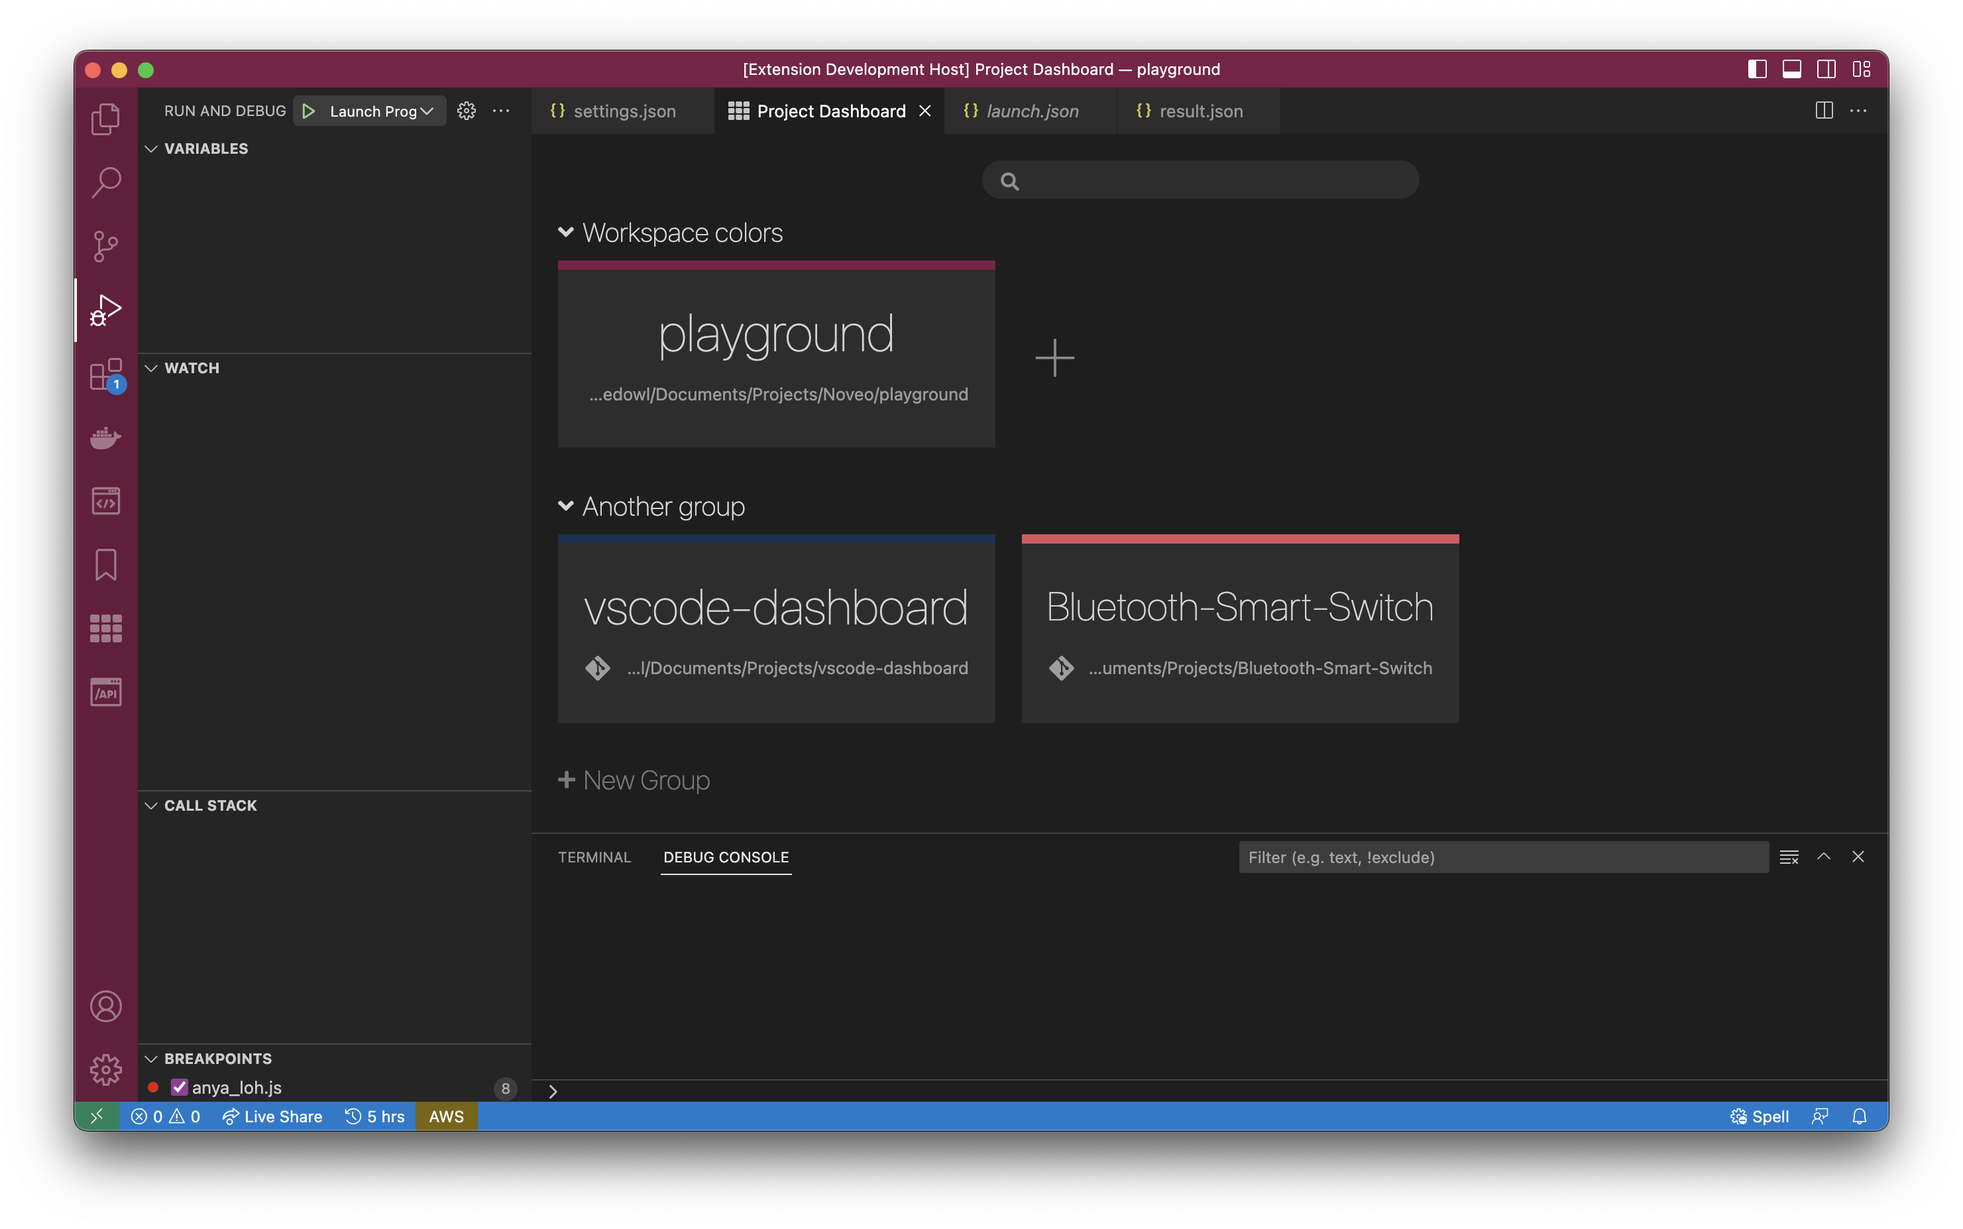
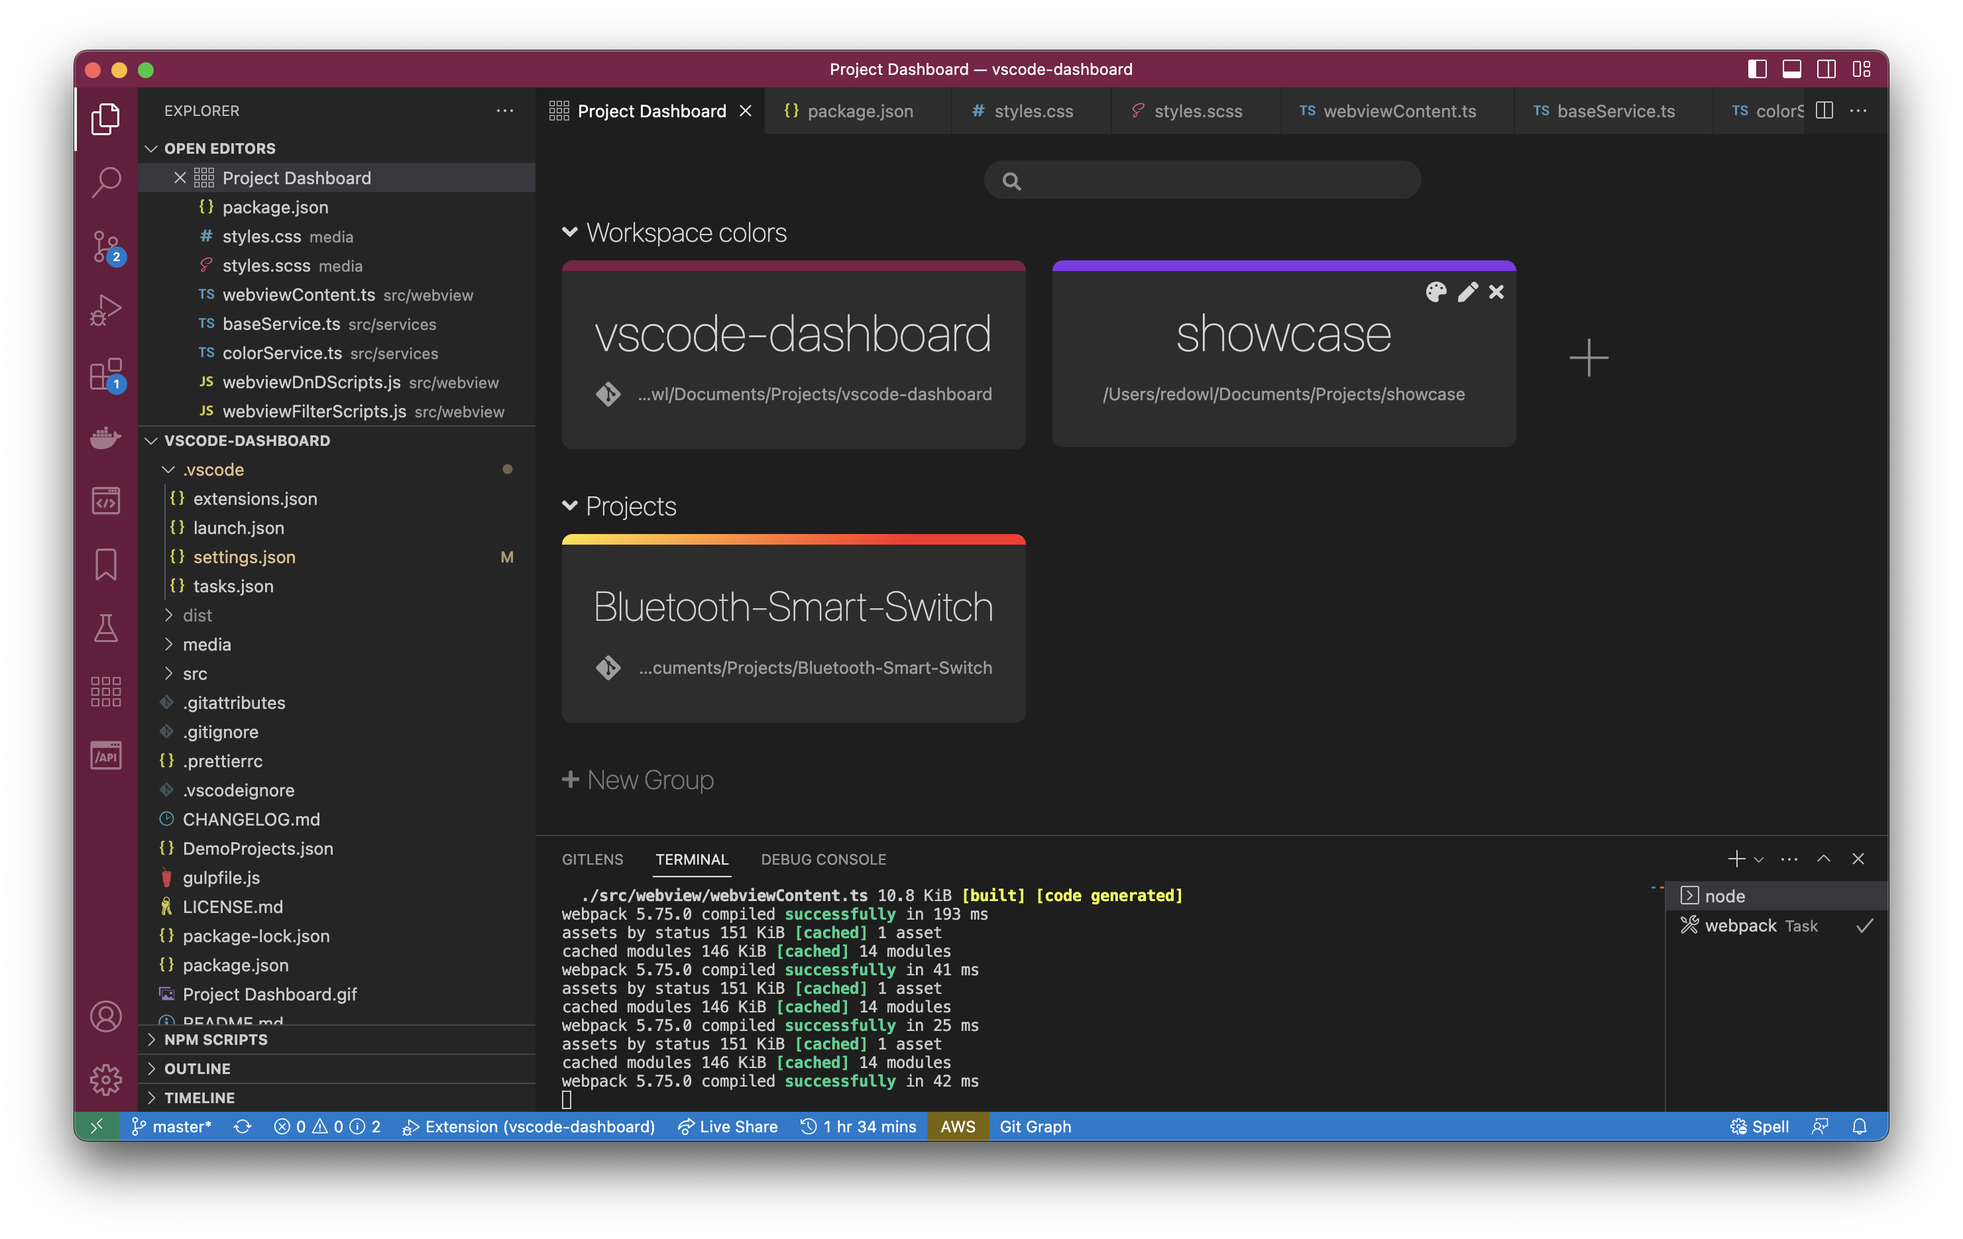
Improved create project layout

diff --git a/media/styles.css b/media/styles.css
@@ -1,1 +1,1 @@
-.gu-mirror{position:fixed!important;margin:0!important;z-index:9999!important;opacity:.8}.gu-hide{display:none!important}.gu-unselectable{-webkit-user-select:none!important;-moz-user-select:none!important;-ms-user-select:none!important;user-select:none!important}.gu-transit{opacity:.2}:root{--dashboard-project-card-bg:var(--vscode-tab-inactiveBackground);--dashboard-foreground:var(--vscode-editor-foreground);--dashboard-path:var(--vscode-descriptionForeground);--column-width:350px}body{user-select:none}body.preload,body.preload *{transition:none!important}body.dashboard-empty #tempGroup{display:none}.group{margin-top:10px;margin-right:-20px;overflow:hidden}.group.collapsed .group-list{height:0!important;min-height:0!important;margin-top:0}.group.collapsed .collapse-icon svg{transform:rotate(-90deg)}.group#tempGroup .group-title{transition:opacity 150ms ease-in-out;opacity:.5}.group#tempGroup .group-title:hover{opacity:1}.group#tempGroup svg{width:.75em;fill:var(--dashboard-foreground)}.group:first-child{margin-top:10px}.group .group-title{min-width:calc(var(--column-width) - 19px);display:inline-block;font-size:20px;font-weight:200;margin-left:0}.group .group-title>span{cursor:pointer}.group .group-title .collapse-icon{padding-right:2px}.group .group-title .collapse-icon svg{width:.6em;fill:var(--dashboard-foreground);margin-right:0}.group .group-title .collapse-icon :hover>svg{filter:brightness(150%)}.group .group-title .collapse-icon [data-action],.group .group-title .collapse-icon[data-action]{cursor:pointer}.group .group-title .collapse-icon svg{transition:transform 150ms ease-in-out;margin-bottom:-2px}.group .group-title-text{margin-right:2em}.group .group-actions{transition:opacity 150ms ease-in-out 250ms;opacity:0;pointer-events:none}.group .group-actions svg{width:14.6px;fill:var(--dashboard-foreground);margin-right:4px}.group .group-actions :hover>svg{filter:brightness(150%)}.group .group-actions [data-action],.group .group-actions[data-action]{cursor:pointer}.group .group-actions.left{display:inline;padding-left:.5em}.group .group-actions.right{float:right}.group .group-actions [data-action=add] svg{margin-right:2px}.group .group-actions :last-child svg{margin-right:6px}.group .group-title:hover .group-actions{opacity:1;pointer-events:all}.group .group-list{display:flex;flex-wrap:wrap;align-items:flex-start;position:relative;padding-top:10px}.group .drop-signal{transition:opacity 150ms ease-in-out;pointer-events:none;opacity:0;width:calc(var(--column-width) - 19px);align-self:stretch;background:var(--dashboard-project-card-bg);margin-bottom:20px;position:absolute;top:10px;height:calc(100% - 30px)}.group .drop-signal:not(:only-of-type){display:none}.group-title:hover+.group .add-project,.group:hover .add-project{opacity:.6}.project-container{display:inline-block;width:var(--column-width);overflow:hidden;margin:0 20px 20px 0;border-radius:8px}.project-container.slim{width:calc(var(--column-width)/ 5);min-width:40px}body .project{cursor:pointer;position:relative;display:flex;flex-direction:column;justify-content:center;align-items:center;padding:27px 25px 20px 25px;background:var(--dashboard-project-card-bg)}body .project .project-border{position:absolute;left:0;top:0;width:100%;height:8px;background:0 0;z-index:50}body .project .fitty-container{max-width:100%;min-height:53px;display:flex;justify-content:center;align-items:center}body .project .add-project-header,body .project .project-header{color:var(--dashboard-foreground);margin:0;font-size:40px;font-weight:lighter;text-align:center}body .project .add-project-header{font-size:60px;margin-top:-.25em}body .project .project-path-info{display:flex;max-width:100%}body .project .project-path{color:var(--dashboard-path);direction:rtl;overflow:hidden;white-space:nowrap;text-overflow:ellipsis}body .project .project-path .path-text{text-overflow:ellipsis;direction:ltr;unicode-bidi:bidi-override}body .project .git-icon svg,body .project .project-icon svg,body .project .remote-icon svg{width:20px;fill:var(--dashboard-path)}body .project .error-icon.git-icon svg,body .project .error-icon.remote-icon svg,body .project .project-icon.error-icon svg{fill:var(--vscode-gitDecoration-deletedResourceForeground)}body .project .git-icon{margin:-2px 6px -4px 0}body .project .remote-icon{margin:0 6px -4px 0}body .project.add-project,body .project.no-projects{height:calc(var(--column-width) * .2742857143);background:0 0;font-size:1.5em;opacity:0;transition:opacity 150ms ease-in-out}body .project.add-project:hover,body .project.no-projects:hover{opacity:1}body .project.no-projects{opacity:1;text-align:center}body .project.import-data{width:calc(2 * var(--column-width))}body .project .project-actions-wrapper{position:absolute;right:0;top:0;padding-top:calc(.6em + 8px);overflow-y:hidden}body .project .project-actions{margin-top:calc(-2em - 8px);transition:margin-top 150ms ease-in-out 250ms}body .project .project-actions svg{width:15.6px;fill:var(--dashboard-foreground);margin-right:4.68px}body .project .project-actions :hover>svg{filter:brightness(150%)}body .project .project-actions [data-action],body .project .project-actions[data-action]{cursor:pointer}body .project:hover .project-actions{margin-top:0}.custom-context-menu{position:absolute;z-index:100;display:none;padding:11px 1px;background:var(--vscode-menu-background);color:var(--vscode-menu-foreground);box-shadow:var(--vscode-widget-shadow) 0 2px 3px}.custom-context-menu.visible{display:block}.custom-context-menu .custom-context-menu-item{padding:5px 26px}.custom-context-menu .custom-context-menu-item:hover{color:var(--vscode-menu-selectionForeground);background:var(--vscode-menu-selectionBackground)}.custom-context-menu .custom-context-menu-item.disabled{pointer-events:none;opacity:50%}.custom-context-menu .custom-context-menu-separator{border-top:1pt solid var(--vscode-menu-separatorBackground);opacity:50%;margin:3px 10px}.hide-project-path .group .project{padding:30px 20px}.hide-project-path .group .project .project-path-info{display:none}.hide-project-path .group .project.add-project{height:calc(calc(var(--column-width) * .2742857143) - 1em - 24px)}.hide-project-path .group .group-list{min-height:calc(calc(var(--column-width) * .4657142857) - 1em - 24px)}.gu-mirror.project-container .project{height:auto}.gu-mirror.project-container .project-actions-wrapper{display:none}.gu-mirror *{cursor:grabbing!important}.gu-mirror .group-actions,.gu-mirror .project-actions-wrapper{display:none!important}.project-dragging .group .drop-signal{opacity:.2;pointer-events:all;position:static;height:auto}.project-dragging .group .group-title{opacity:1}.last{order:1000}.filter-wrapper{transition:top 150ms ease-in-out;top:-52px;position:absolute;width:calc(100% - 40px);display:flex;align-items:center;justify-content:center;padding-top:20px}.filter-wrapper .clear-search-icon,.filter-wrapper .search-icon{margin-left:-40px;margin-right:-28px;z-index:5;padding-top:5px}.filter-wrapper .clear-search-icon svg,.filter-wrapper .search-icon svg{width:14px;fill:var(--dashboard-path);opacity:.6}.filter-wrapper .clear-search-icon{margin-left:-26px;visibility:hidden;cursor:pointer}.filter-wrapper:active.has-filter-value .clear-search-icon,.filter-wrapper:focus.has-filter-value .clear-search-icon,.filter-wrapper:hover.has-filter-value .clear-search-icon{visibility:visible}.filter-wrapper input{background:var(--dashboard-project-card-bg);color:var(--dashboard-foreground);width:calc(var(--column-width) - 20px);outline-color:transparent;padding:4px 34px;text-align:center;font-family:var(--vscode-font-family);font-size:1.2em;border:1pt solid transparent;border-radius:20px}.filter-wrapper input[type=search]::-webkit-search-cancel-button,.filter-wrapper input[type=search]::-webkit-search-decoration,.filter-wrapper input[type=search]::-webkit-search-results-button,.filter-wrapper input[type=search]::-webkit-search-results-decoration{display:none}body{transition:padding-top 150ms ease-in-out;padding-top:0}body.no-initial-transition{transition:none}body.no-initial-transition .filter-wrapper{transition:none}body.filtering-active{padding-top:52px}body.filtering-active .filter-wrapper{top:0}body.filtering-active .filtered{display:none!important}
+.gu-mirror{position:fixed!important;margin:0!important;z-index:9999!important;opacity:.8}.gu-hide{display:none!important}.gu-unselectable{-webkit-user-select:none!important;-moz-user-select:none!important;-ms-user-select:none!important;user-select:none!important}.gu-transit{opacity:.2}:root{--dashboard-project-card-bg:var(--vscode-tab-inactiveBackground);--dashboard-foreground:var(--vscode-editor-foreground);--dashboard-path:var(--vscode-descriptionForeground);--column-width:350px}body{user-select:none}body.preload,body.preload *{transition:none!important}body.dashboard-empty #tempGroup{display:none}.group{margin-top:10px;margin-right:-20px;overflow:hidden}.group.collapsed .group-list{height:0!important;min-height:0!important;margin-top:0}.group.collapsed .collapse-icon svg{transform:rotate(-90deg)}.group#tempGroup .group-title{transition:opacity 250ms ease-in-out;opacity:.5}.group#tempGroup .group-title:hover{opacity:1}.group#tempGroup svg{width:.75em;fill:var(--dashboard-foreground)}.group:first-child{margin-top:10px}.group .group-title{min-width:calc(var(--column-width) - 19px);display:inline-block;font-size:20px;font-weight:200;margin-left:0}.group .group-title>span{cursor:pointer}.group .group-title .collapse-icon{padding-right:2px}.group .group-title .collapse-icon svg{width:.6em;fill:var(--dashboard-foreground);margin-right:0}.group .group-title .collapse-icon :hover>svg{filter:brightness(150%)}.group .group-title .collapse-icon [data-action],.group .group-title .collapse-icon[data-action]{cursor:pointer}.group .group-title .collapse-icon svg{transition:transform 250ms ease-in-out;margin-bottom:-2px}.group .group-title-text{margin-right:2em}.group .group-actions{transition:opacity 250ms ease-in-out .2s;opacity:0;pointer-events:none}.group .group-actions svg{width:14.6px;fill:var(--dashboard-foreground);margin-right:4px}.group .group-actions :hover>svg{filter:brightness(150%)}.group .group-actions [data-action],.group .group-actions[data-action]{cursor:pointer}.group .group-actions.left{display:inline;padding-left:.5em}.group .group-actions.right{float:right}.group .group-actions [data-action=add] svg{margin-right:2px}.group .group-actions :last-child svg{margin-right:6px}.group .group-title:hover .group-actions{opacity:1;pointer-events:all}.group .group-list{display:flex;flex-wrap:wrap;align-items:flex-start;position:relative;padding-top:10px}.group .drop-signal{transition:opacity 250ms ease-in-out;pointer-events:none;opacity:0;width:calc(var(--column-width) - 19px);align-self:stretch;background:var(--dashboard-project-card-bg);margin-bottom:20px;position:absolute;top:10px;height:calc(100% - 30px)}.group .drop-signal:not(:only-of-type){display:none}.group-title:hover+.group .add-project,.group:hover .add-project{opacity:.4}.project-container{display:inline-block;flex:0 0 30%;width:var(--column-width);overflow:hidden;margin:0 3% 20px 0;border-radius:8px}.project-container.slim{width:calc(var(--column-width)/ 5);min-width:40px}.project-container.slim:nth-child(3n+5),.project-container.slim:nth-child(5n){height:40px}.project-container.slim:nth-child(3n+5)>.project,.project-container.slim:nth-child(5n)>.project{padding:0;height:100%}body .project{cursor:pointer;position:relative;display:flex;flex-direction:column;justify-content:center;align-items:center;padding:27px 25px 20px 25px;background:var(--dashboard-project-card-bg)}body .project .project-border{position:absolute;left:0;top:0;width:100%;height:8px;background:0 0;z-index:50}body .project .fitty-container{max-width:100%;min-height:53px;display:flex;justify-content:center;align-items:center}body .project .add-project-header,body .project .project-header{color:var(--dashboard-foreground);margin:0;font-size:40px;font-weight:lighter;text-align:center}body .project .add-project-header{font-size:40px;margin-top:-.25em}body .project .project-path-info{display:flex;max-width:100%}body .project .project-path{color:var(--dashboard-path);direction:rtl;overflow:hidden;white-space:nowrap;text-overflow:ellipsis}body .project .project-path .path-text{text-overflow:ellipsis;direction:ltr;unicode-bidi:bidi-override}body .project .git-icon svg,body .project .project-icon svg,body .project .remote-icon svg{width:20px;fill:var(--dashboard-path)}body .project .error-icon.git-icon svg,body .project .error-icon.remote-icon svg,body .project .project-icon.error-icon svg{fill:var(--vscode-gitDecoration-deletedResourceForeground)}body .project .git-icon{margin:-2px 6px -4px 0}body .project .remote-icon{margin:0 6px -4px 0}body .project.add-project,body .project.no-projects{height:calc(var(--column-width) * .2742857143);background:var(--dashboard-project-card-bg);font-size:1.5em;opacity:.4;transition:opacity 250ms ease-in-out}body .project.add-project:hover,body .project.no-projects:hover{opacity:1}body .project.no-projects{opacity:1;text-align:center}body .project.import-data{width:calc(2 * var(--column-width))}body .project .project-actions-wrapper{position:absolute;right:0;top:0;padding-top:calc(.6em + 8px);overflow-y:hidden}body .project .project-actions{margin-top:calc(-2em - 8px);transition:margin-top 250ms ease-in-out .2s}body .project .project-actions svg{width:15.6px;fill:var(--dashboard-foreground);margin-right:4.68px}body .project .project-actions :hover>svg{filter:brightness(150%)}body .project .project-actions [data-action],body .project .project-actions[data-action]{cursor:pointer}body .project:hover .project-actions{margin-top:0}.custom-context-menu{position:absolute;z-index:100;display:none;padding:11px 1px;background:var(--vscode-menu-background);color:var(--vscode-menu-foreground);box-shadow:var(--vscode-widget-shadow) 0 2px 3px}.custom-context-menu.visible{display:block}.custom-context-menu .custom-context-menu-item{padding:5px 26px}.custom-context-menu .custom-context-menu-item:hover{color:var(--vscode-menu-selectionForeground);background:var(--vscode-menu-selectionBackground)}.custom-context-menu .custom-context-menu-item.disabled{pointer-events:none;opacity:50%}.custom-context-menu .custom-context-menu-separator{border-top:1pt solid var(--vscode-menu-separatorBackground);opacity:50%;margin:3px 10px}.hide-project-path .group .project{padding:30px 20px}.hide-project-path .group .project .project-path-info{display:none}.hide-project-path .group .project.add-project{height:calc(calc(var(--column-width) * .2742857143) - 1em - 24px)}.hide-project-path .group .group-list{min-height:calc(calc(var(--column-width) * .4657142857) - 1em - 24px)}.gu-mirror.project-container .project{height:auto}.gu-mirror.project-container .project-actions-wrapper{display:none}.gu-mirror *{cursor:grabbing!important}.gu-mirror .group-actions,.gu-mirror .project-actions-wrapper{display:none!important}.project-dragging .group .drop-signal{opacity:.2;pointer-events:all;position:static;height:auto}.project-dragging .group .group-title{opacity:1}.last{order:1000}.filter-wrapper{transition:top 250ms ease-in-out;top:-52px;position:absolute;width:calc(100% - 40px);display:flex;align-items:center;justify-content:center;padding-top:20px}.filter-wrapper .clear-search-icon,.filter-wrapper .search-icon{margin-left:-40px;margin-right:-28px;z-index:5;padding-top:5px}.filter-wrapper .clear-search-icon svg,.filter-wrapper .search-icon svg{width:14px;fill:var(--dashboard-path);opacity:.6}.filter-wrapper .clear-search-icon{margin-left:-26px;visibility:hidden;cursor:pointer}.filter-wrapper:active.has-filter-value .clear-search-icon,.filter-wrapper:focus.has-filter-value .clear-search-icon,.filter-wrapper:hover.has-filter-value .clear-search-icon{visibility:visible}.filter-wrapper input{background:var(--dashboard-project-card-bg);color:var(--dashboard-foreground);width:calc(var(--column-width) - 20px);outline-color:transparent;padding:4px 34px;text-align:center;font-family:var(--vscode-font-family);font-size:1.2em;border:1pt solid transparent;border-radius:20px}.filter-wrapper input[type=search]::-webkit-search-cancel-button,.filter-wrapper input[type=search]::-webkit-search-decoration,.filter-wrapper input[type=search]::-webkit-search-results-button,.filter-wrapper input[type=search]::-webkit-search-results-decoration{display:none}body{transition:padding-top 250ms ease-in-out;padding-top:0}body.no-initial-transition{transition:none}body.no-initial-transition .filter-wrapper{transition:none}body.filtering-active{padding-top:52px}body.filtering-active .filter-wrapper{top:0}body.filtering-active .filtered{display:none!important}

diff --git a/media/styles.scss b/media/styles.scss
@@ -25,8 +25,8 @@ $projectHeaderMinHeight: 53px; // To be constant even with fitted font size
 $projectIconSize: 20px;
 $dataActionIconSize: 15.6px; // Default font size * 1.2em, in pixel to keep constant across different font sizes
 
-$defaultTransition: 150ms ease-in-out;
-$actionTransitionDelay: 250ms;
+$defaultTransition: 250ms ease-in-out;
+$actionTransitionDelay: 200ms;
 
 // MIXINS
 @mixin actions($size: $dataActionIconSize, $spacing: $dataActionIconSize * 0.3) {
@@ -195,22 +195,46 @@ body {
 
     .group:hover .add-project,
     .group-title:hover+.group .add-project {
-        opacity: 0.6;
+        opacity: 0.4;
     }
 }
 
 .project-container {
     display: inline-block;
+    flex: 0 0 30%;
     width: var(--column-width);
     overflow: hidden;
-    margin: 0 20px 20px 0;
+    margin: 0 3% 20px 0;
     border-radius: 8px;
 
     &.slim {
         width: calc(var(--column-width) / 5);
         min-width: 40px;
+
+        &:nth-child(5n),
+        &:nth-child(3n+5) {
+            height: 40px;
+
+            >.project {
+                padding: 0;
+                height: 100%;
+            }
+        }
     }
 }
+
+// @media screen and (max-width: 978px) {
+//     .slim {
+//         &:nth-child(4n) {
+//             height: 40px;
+
+//             >.project {
+//                 padding: 0;
+//                 height: 100%;
+//             }
+//         }
+//     }
+// }
 
 body .project {
     cursor: pointer;
@@ -253,7 +277,7 @@ body .project {
 
     .add-project-header {
         @extend .project-header;
-        font-size: 60px;
+        font-size: 40px;
         margin-top: -0.25em;
     }
 
@@ -301,9 +325,9 @@ body .project {
     &.add-project,
     &.no-projects {
         height: $projectCardMinHeight;
-        background: none;
+        background: var(--dashboard-project-card-bg);
         font-size: 1.5em;
-        opacity: if($useAddProjectOpacity, 0, 0.6);
+        opacity: if($useAddProjectOpacity, 0.4, 0.4);
         transition: opacity $defaultTransition;
 
         &:hover {

diff --git a/src/dashboard.ts b/src/dashboard.ts
@@ -447,7 +447,7 @@ export function activate(context: vscode.ExtensionContext) {
     }
 
     let accepted = await vscode.window.showWarningMessage(
-      `Remove ${group.groupName}?`,
+      `Remove ${group.groupName} from dashboard?`,
       { modal: true },
       "Remove"
     );

diff --git a/README.md b/README.md
@@ -6,7 +6,7 @@
 
 ## Workspace colors
 
-This version support getting colors from vscode settings of project. All you need to enable this feature is select the `> Workspace Color` in project tab.
+This version support getting colors from vscode settings of project. All you need to enable this feature is select the `> Workspace Color` in color selector when adding a tab to project dashboard.
 
 > Here is a good extension which is automagically setting up workspace colors: [Window Colors](https://marketplace.visualstudio.com/items?itemName=stuart.unique-window-colors))
 
